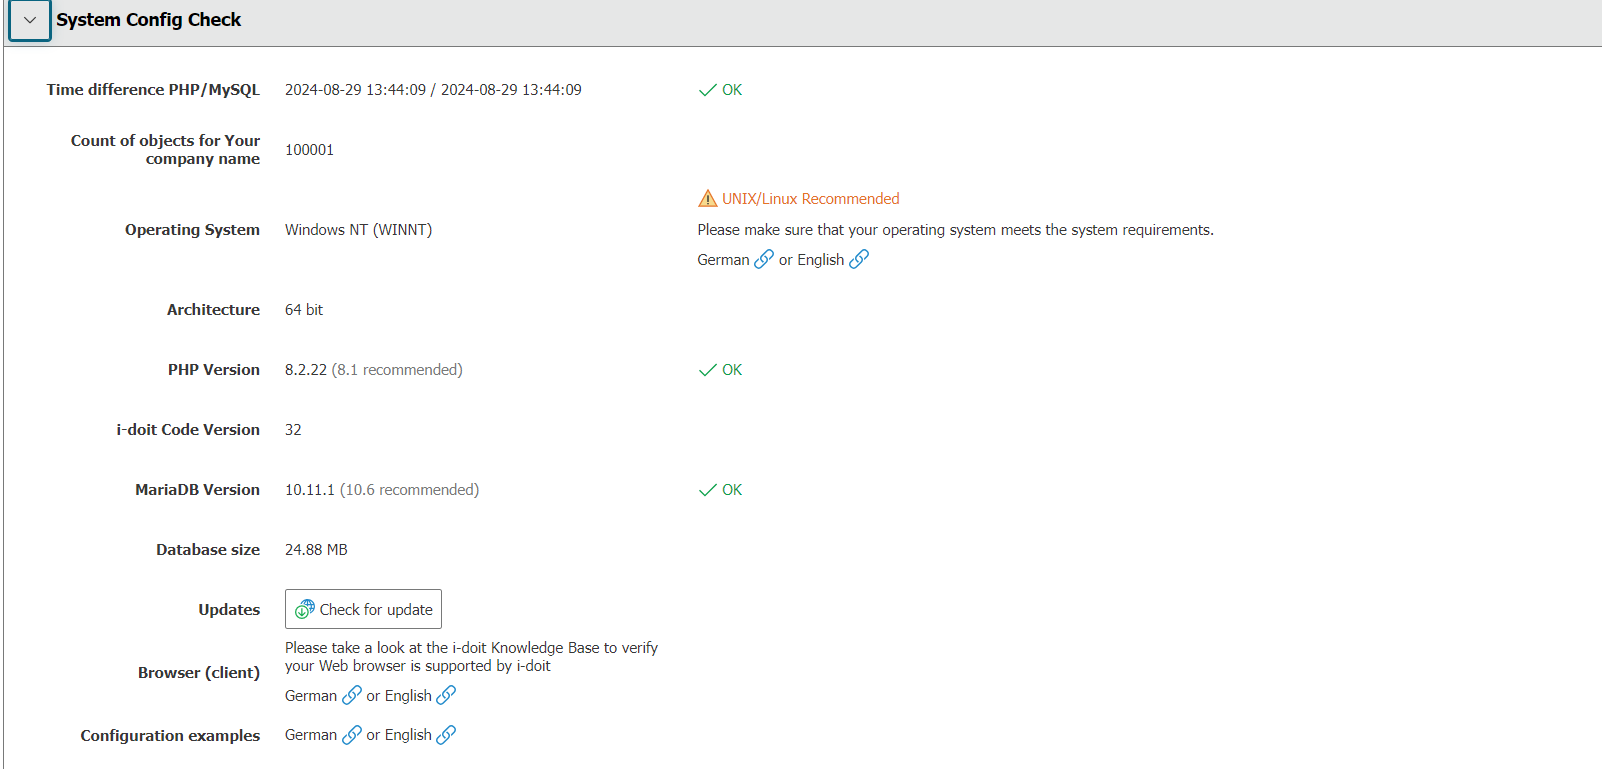
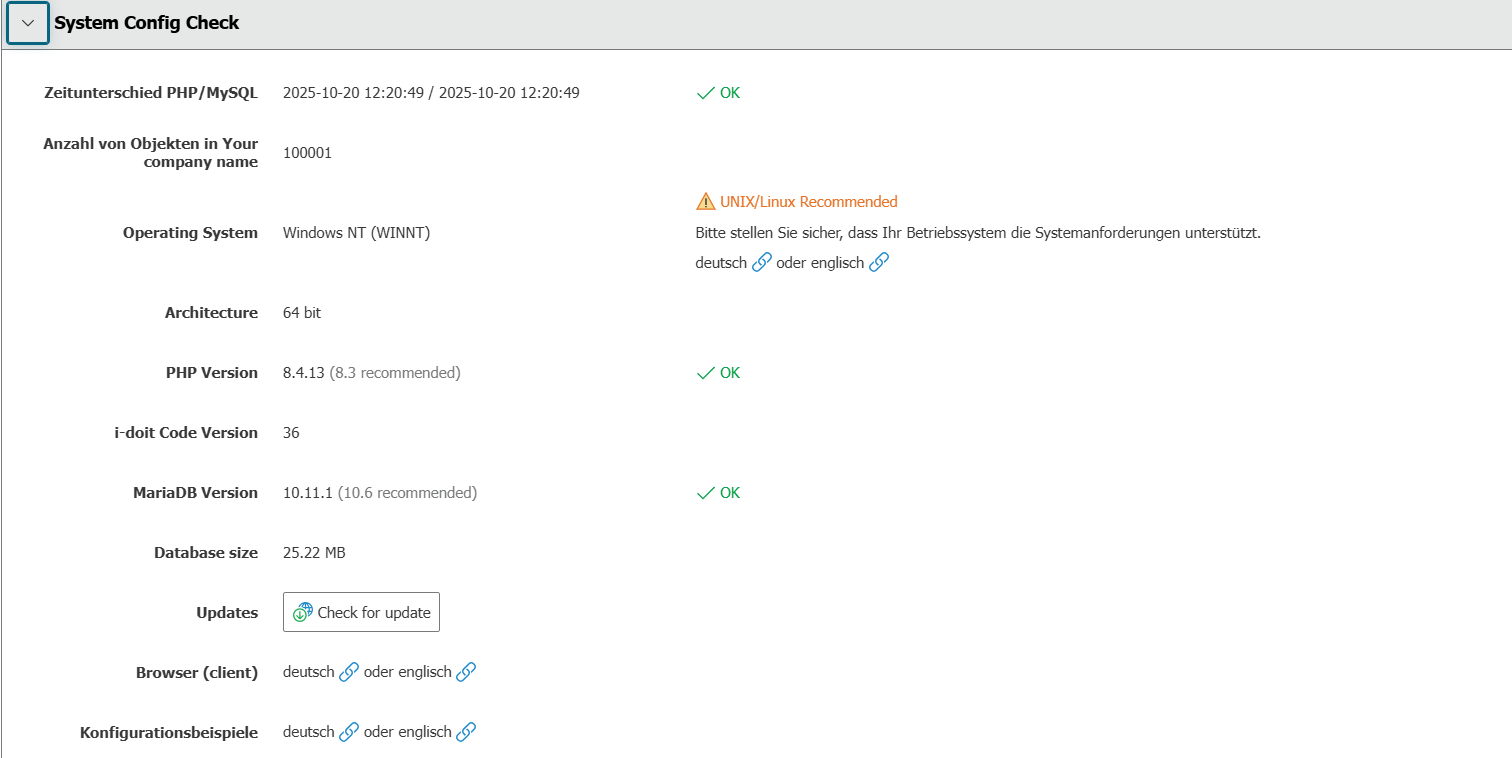
docs: add guide for updating PHP and MariaDB on Windows

diff --git a/docs/de/upgrades-und-umzuege/update-php-and-mariabd-unter-windows.md b/docs/de/upgrades-und-umzuege/update-php-and-mariabd-unter-windows.md
@@ -1,6 +1,6 @@
 ---
-title: Upgrade Windows Komponente
-description: Anleitung zum updaten von PHP und MariaDB für i-doit Windows Installationen
+title: Update PHP und MariaDB unter Windows
+description: Anleitung zum updaten von PHP und MariaDB für i-doit Windows Installationen. Beinhaltete PHP Versionen sind 8.2, 8.3 und 8.4. Beinhaltete MariaDB Versionen sind MariaDB 10.11. Hier zeigen wir, welche Schritte notwendig sind um die PHP und MariaDB Versionen korrekt anzuheben.
 icon: material/microsoft-windows
 status:
 lang: de
@@ -12,14 +12,17 @@ In diesem Artikel zeigen wir Ihnen, wie Sie PHP und MariaDB für Ihre [i-doit Wi
 
 Um PHP und MariaDB erfolgreich updaten zu können, brauchen wir die jeweils richtigen Update Pakete.
 
-### PHP 8.4
+### PHP Update Paket herunterladen
 
-Um erfolgreich auf PHP8.2 updaten zu können wird das Update als zip Datei benötigt.
-Das entsprechende Paket kann hier heruntergeladen werden (64bit Variante): [VS16 x64 Thread Safe](https://windows.php.net/download/)
+Um erfolgreich auf eine der PHP8.X Versionen updaten zu können wird das Update als zip Datei benötigt.
+Das entsprechende Paket kann hier heruntergeladen werden: [x64 Thread Safe](https://windows.php.net/download/)
 
-!!! warning "Es muss unbedingt eine Zip Datei sein und die 'Thread Safe' Version"
+!!! warning "Es muss unbedingt eine Zip Datei sein und die 'x64 Thread Safe' Version"
 
-### MariaDB 10.11
+Überprüfen Sie vorab, ob die PHP Version auch mit Ihrer i-doit Version übereinstimmt!
+Hier finden Sie unsere [Kompatibilitätsmatrix](../installation/systemvoraussetzungen.md#kompatibilitätsmatrix).
+
+### MariaDB 10.11 installer herunterladen
 
 Um erfolgreich aus MariaDB 10.11 Updaten zu können benötigen wir die [MariaDB Server 10.11.1 RC Version](https://mariadb.org/download/?t=mariadb&o=true&p=mariadb&r=10.11.1&os=windows&cpu=x86_64&pkg=msi&mirror=archive)
 
@@ -69,6 +72,8 @@ Zuletzt muss noch die Option "Launch Wizard to Upgrade existing MariaDB or MySQL
 In dem neuen Fenster das Sich daraufhin öffnet wählen Sie dann den MySQL Service aus und klicken auf **"Upgrade"**.
 
 [![upgrade existing instances](../assets/images/de/upgrades-und-umzuege/php-mariadb-update/6-pum.png)](../assets/images/de/upgrades-und-umzuege/php-mariadb-update/6-pum.png)
+
+!!! info "Sollte das Upgrade Fenster nicht auftauchen, können Sie die MariaDB 10.11 Upgrade Wizzard EXE manuell unter **C:\ProgramData\MariaDB10.11\bin** finden und ausführen."
 
 Damit ist MariaDB erfolgreich auf MariaDB 10.11 aktualisiert.
 
